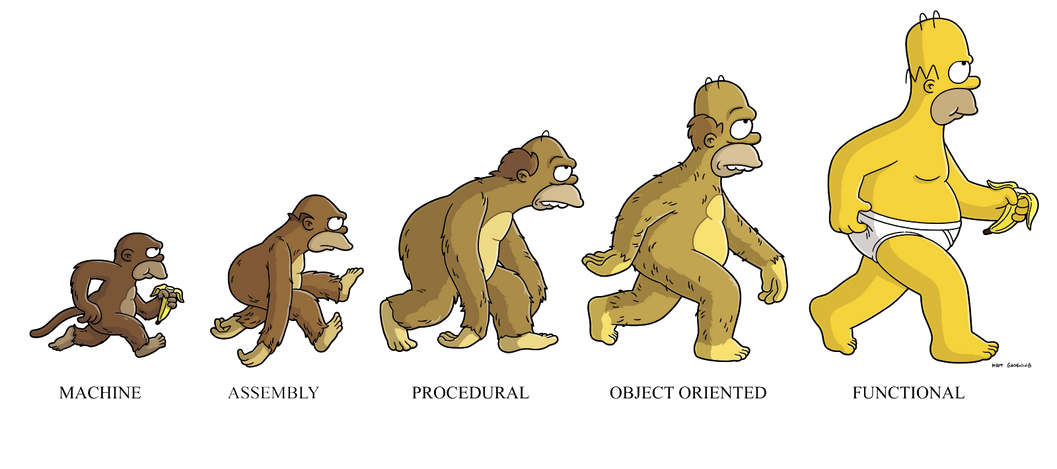
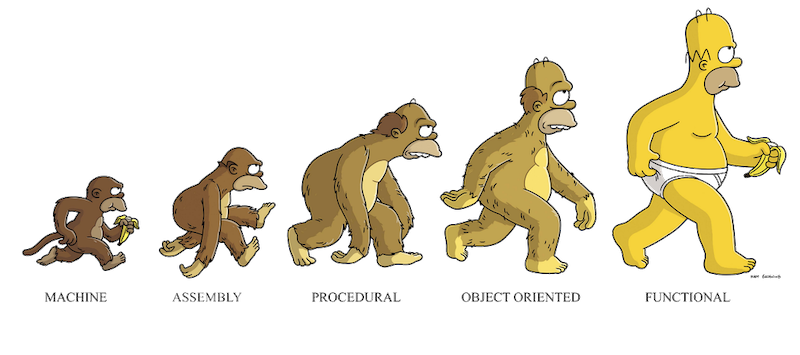
Fix layout

diff --git a/_posts/2018-12-11-solid-hexagonal-functional.md b/_posts/2018-12-11-solid-hexagonal-functional.md
@@ -231,7 +231,7 @@ One of the usual reasons function implementation may inherit another is differen
 # Summary
 I would like to reference to this amazing picture of programming evolution from the blog of ["So You Want to be a Functional Programmer"](https://medium.com/@cscalfani/so-you-want-to-be-a-functional-programmer-part-5-c70adc9cf56a) by Charles Scalfani..
 
-![Evolution](/images/evolution.png){:width=50% height=50%}
+![Evolution](/images/evolution.png){:width="800" height="355px"}
 
 The programming paradigm has evolved but we still have proportions of each previous paradigm in our code and design.
 

diff --git a/_posts/2019-03-28-crud-es-cqrs-rp.md b/_posts/2019-03-28-crud-es-cqrs-rp.md
@@ -180,7 +180,7 @@ But I could easily handle in a reactive way (e.g. `do this when event A happened
 # The bigger picture
 If you put everything together, it become like this:
 
-![CQRS_ES_RP](/images/cqrs+es+rp.png){: width=776 height=1190}
+![CQRS_ES_RP](/images/cqrs+es+rp.png){: width="776px" height="1190px"}
 
 Please note that the "Event Store" was drawn independently for each domain to indicate they are logically different event streams. It does not enforce the separation and you could still mix them and filter them at the observer side.
 
